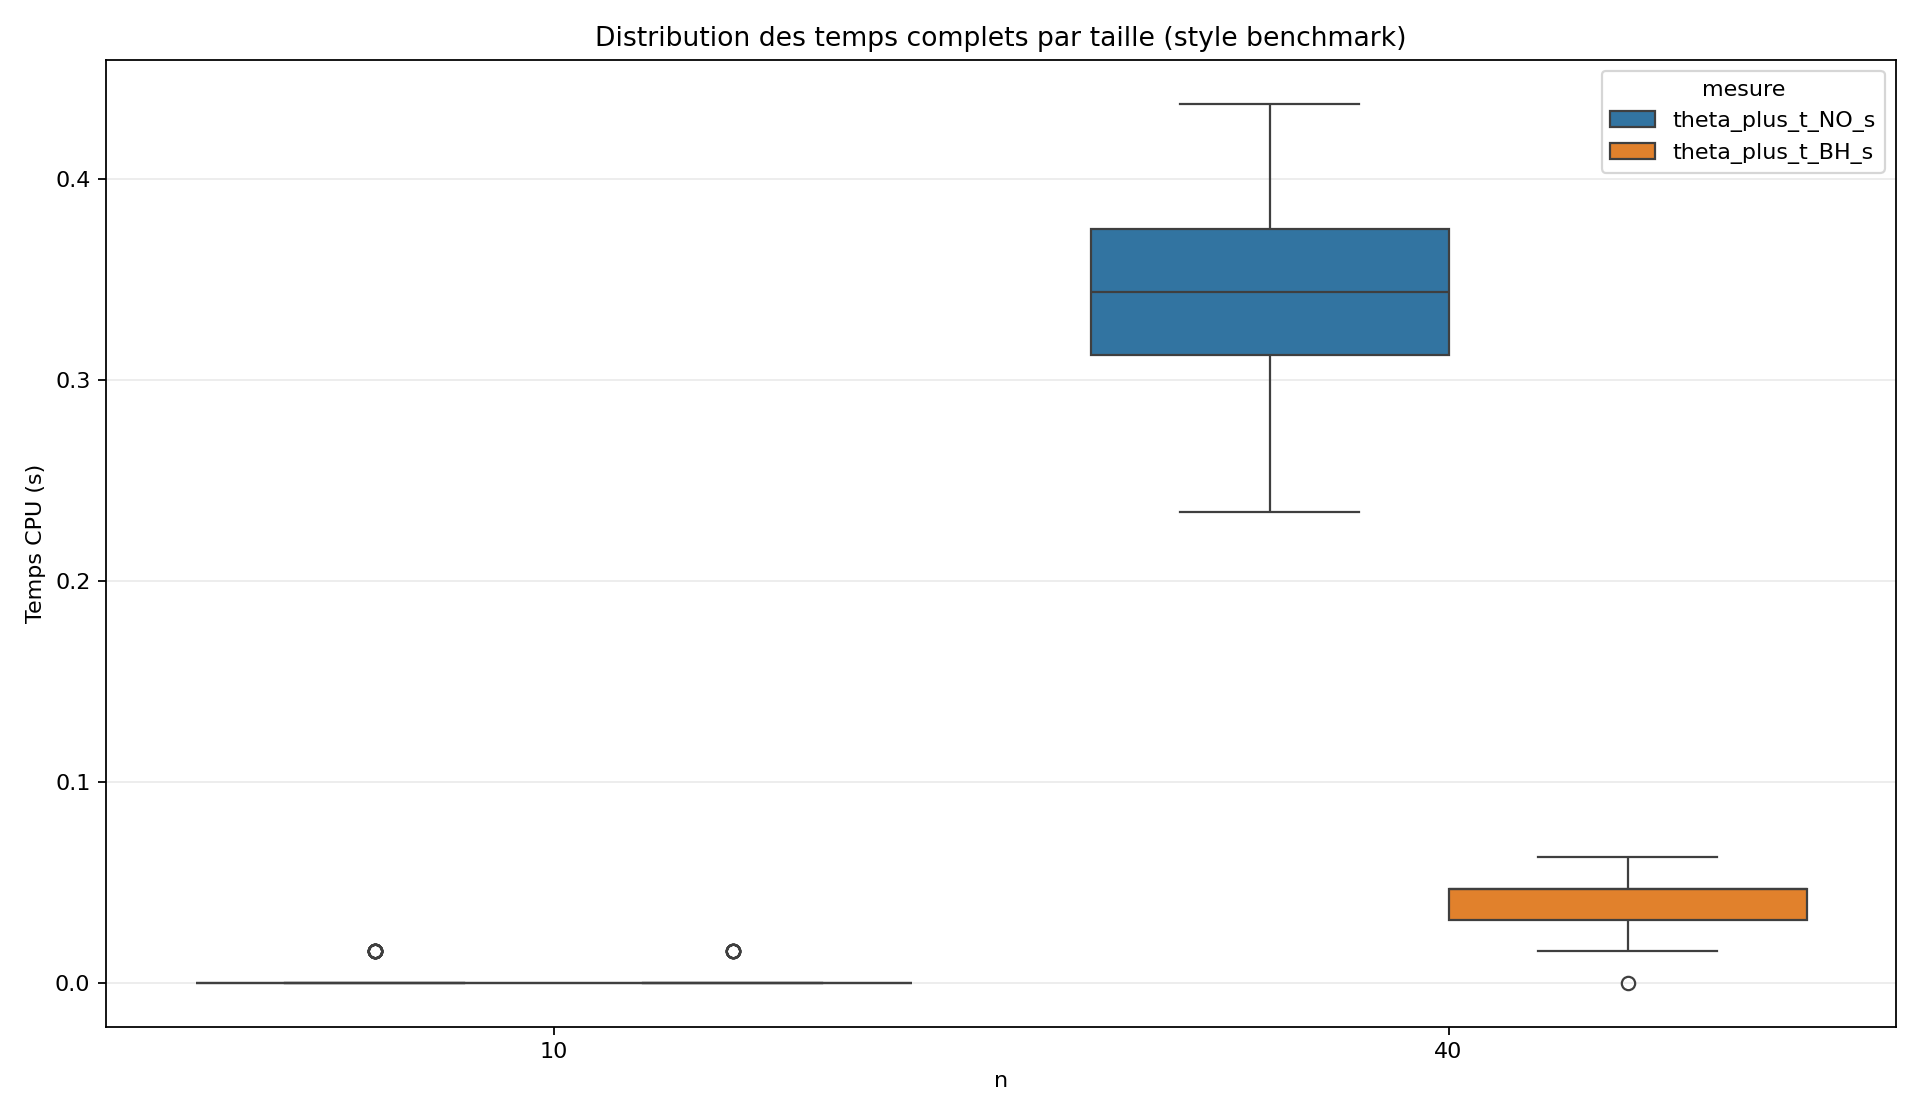
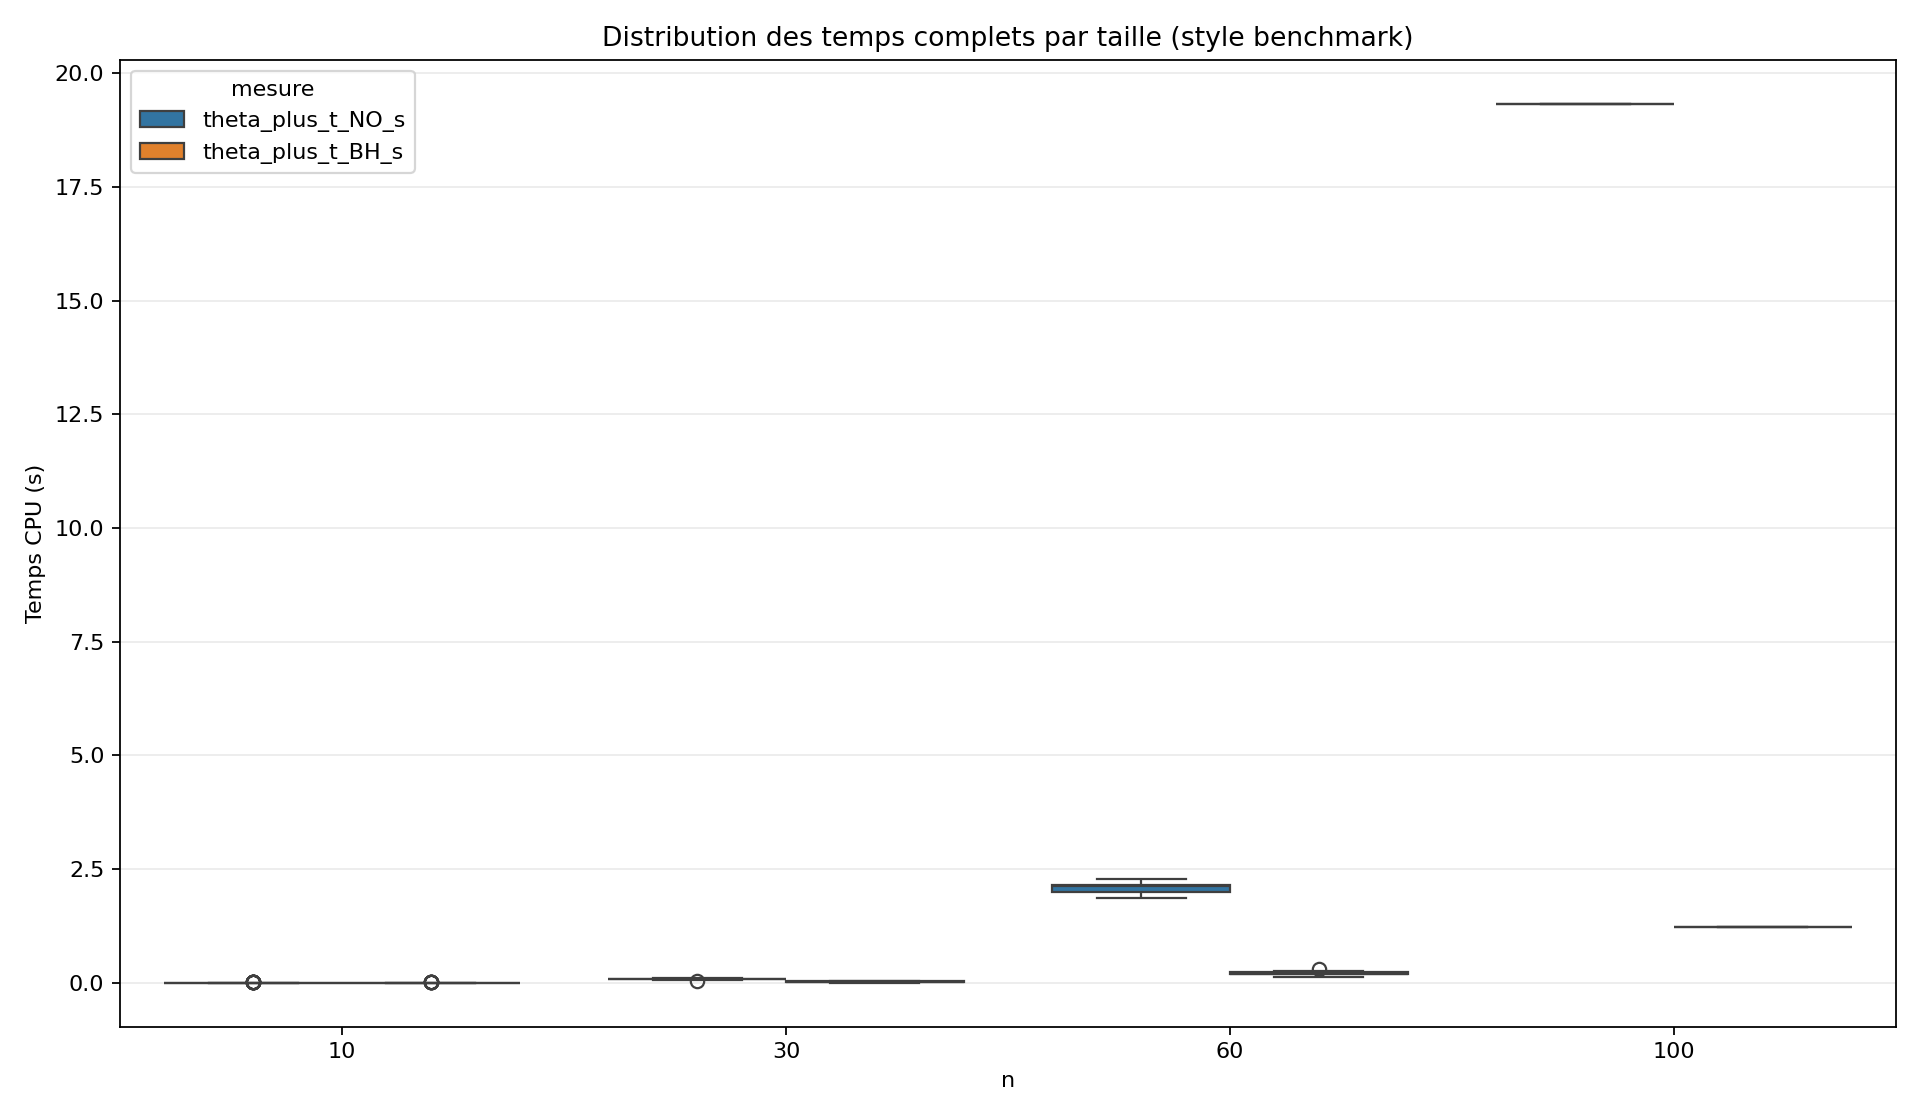
python ok

diff --git a/scripts/etude_10.py b/scripts/etude_10.py
@@ -29,10 +29,10 @@ CONFIG_SIZES = {
     # 4000: 100,
     # 10000: 100,
     10: 100,
-    30: 80,
-    60: 60,
-    100: 50,
-    200: 30,
+    30: 40,
+    60: 10,
+    100: 1,
+    #200: 30,
 }
 
 PROJECT_ROOT = Path(__file__).resolve().parents[1]
